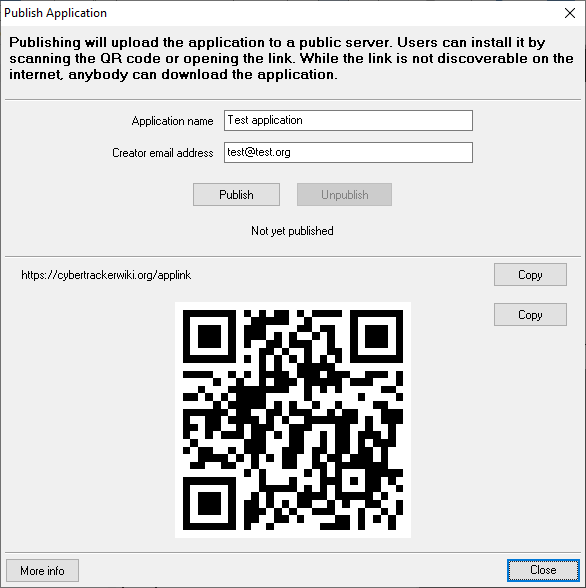
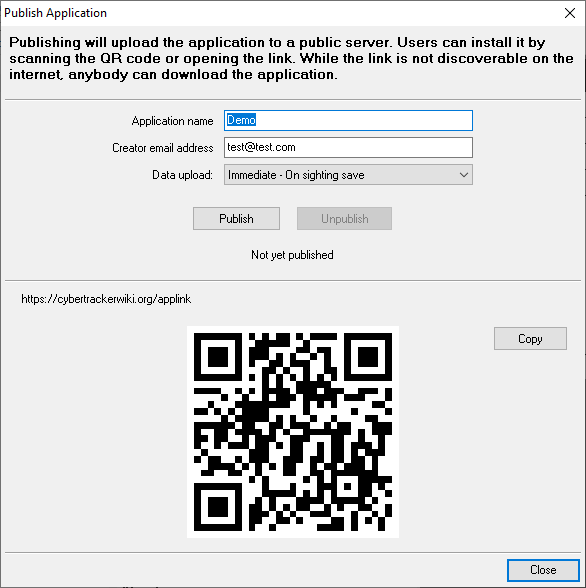
Classic 3.527 - tweaking publishing

diff --git a/_pages/classic/download.md b/_pages/classic/download.md
@@ -9,11 +9,11 @@ permalink: /classic/download/
 
 Click the links below to download the latest release of CyberTracker:
 
-[Download latest release (recommended): 3.526
-\~ 11MB](https://ctwiki.blob.core.windows.net/bin/ct3526u.msi)
+[Download latest release (recommended): 3.527
+\~ 11MB](https://ctwiki.blob.core.windows.net/bin/ct3527u.msi)
 
-[Download latest release (admin install): 3.526
-\~ 11MB](https://ctwiki.blob.core.windows.net/bin/ct3526.msi)
+[Download latest release (admin install): 3.527
+\~ 11MB](https://ctwiki.blob.core.windows.net/bin/ct3527.msi)
 
 ## Legacy downloads
 

diff --git a/_pages/classic/older-versions.md b/_pages/classic/older-versions.md
@@ -7,6 +7,8 @@ permalink: /classic/older-versions/
 ---
 # Older Versions
 
+[3.527 - user](https://ctwiki.blob.core.windows.net/bin/ct3527u.msi)  
+[3.527 - admin](https://ctwiki.blob.core.windows.net/bin/ct3527.msi)  
 [3.526 - user](https://ctwiki.blob.core.windows.net/bin/ct3526u.msi)  
 [3.526 - admin](https://ctwiki.blob.core.windows.net/bin/ct3526.msi)  
 [3.525 - user](https://ctwiki.blob.core.windows.net/bin/ct3525u.msi)  

diff --git a/_pages/classic/change-history.md b/_pages/classic/change-history.md
@@ -7,6 +7,13 @@ permalink: /classic/change-history/
 ---
 # Change History
 
+### 3.527: 09/28/2022
+
+Bug fixes
+
+  - Disable Web Update when using Publishing
+  - Modify clear on update according to send frequency
+
 ### 3.526: 09/27/2022
 
 Bug fixes
